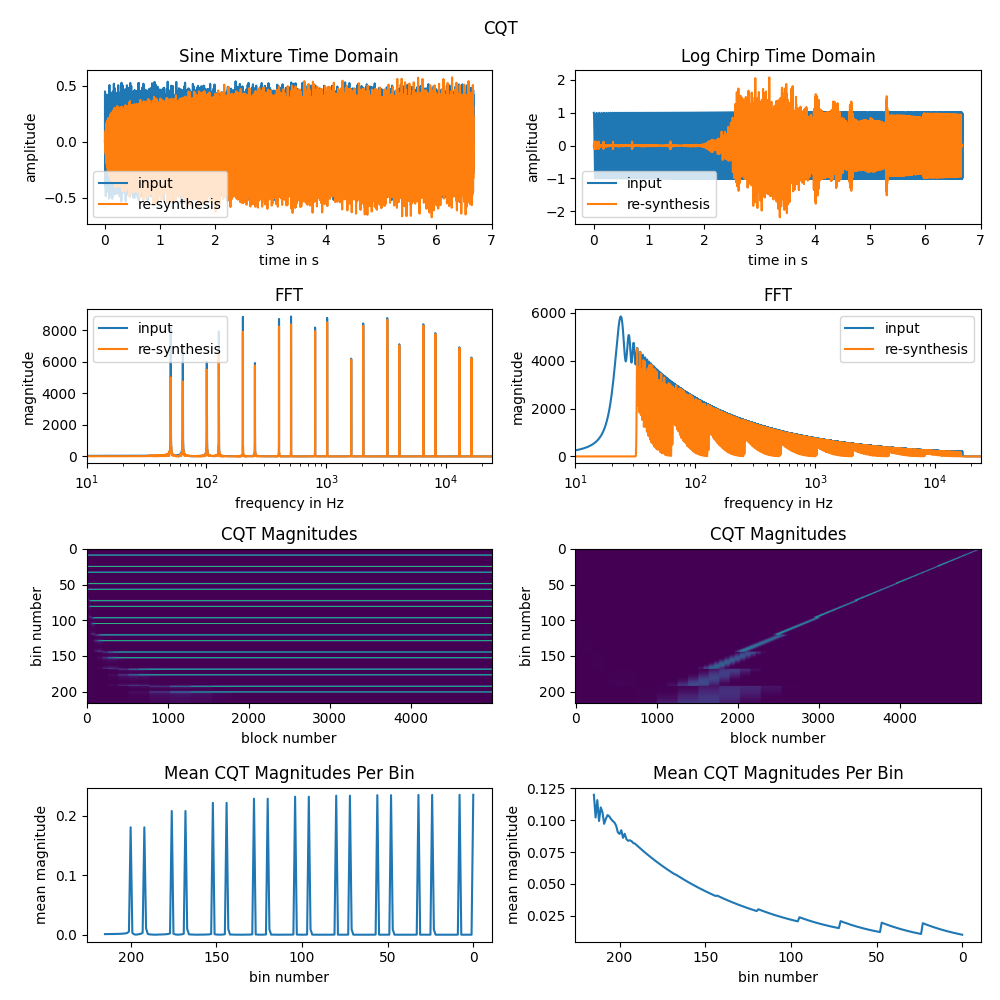
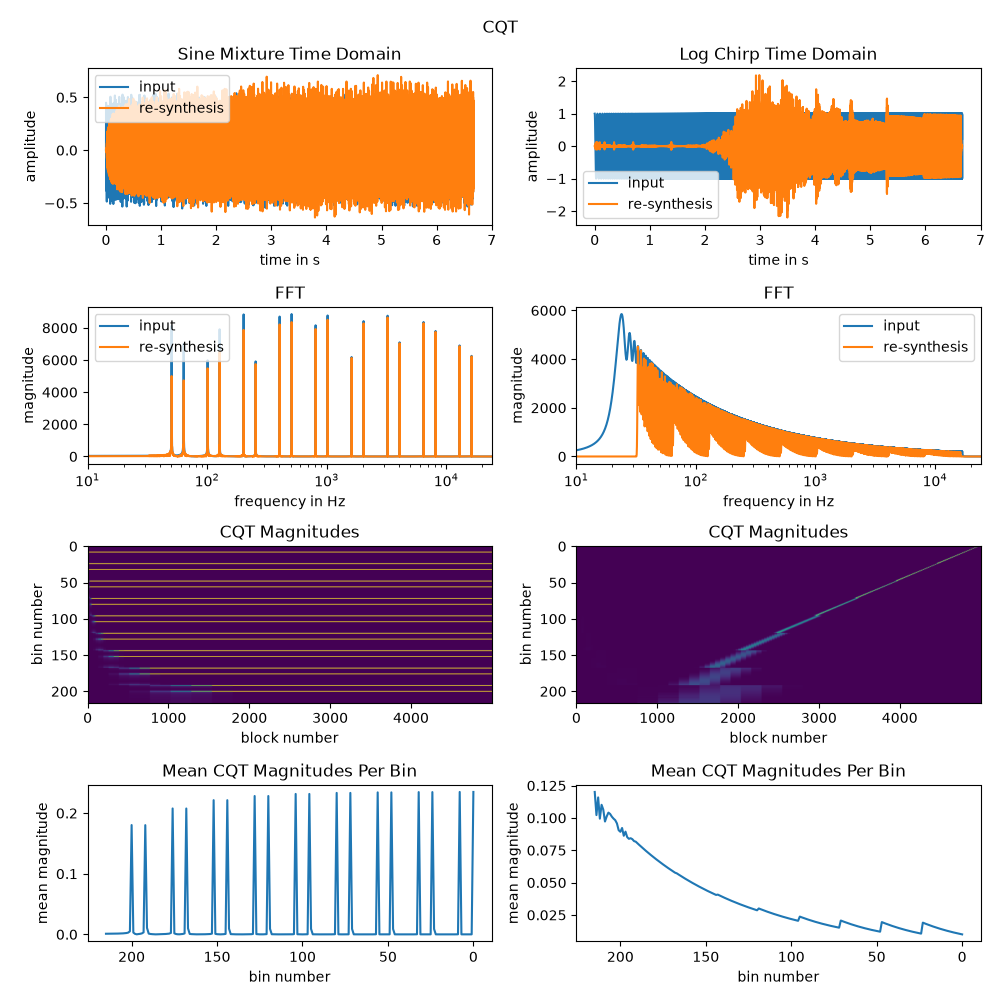
Fix cqt re-synthesis after changes

diff --git a/tests/cqt_integration_tests.cpp b/tests/cqt_integration_tests.cpp
@@ -2,6 +2,7 @@
 #include "SlidingCqt.h"
 
 #include <algorithm>
+#include <array>
 #include <cmath>
 #include <complex>
 #include <iostream>
@@ -42,6 +43,26 @@ std::vector<double> makeSineBlock(
             std::sin(2. * audio_utils::Pi<double>() * frequency * position / samplerate);
     }
     return block;
+}
+
+double measureToneAmplitude(
+    const std::vector<double> &data,
+    const std::size_t start,
+    const double samplerate,
+    const double frequency)
+{
+    double real = 0.;
+    double imaginary = 0.;
+    for (std::size_t sample = start; sample < data.size(); ++sample)
+    {
+        const double phase =
+            2. * audio_utils::Pi<double>() * frequency *
+            static_cast<double>(sample) / samplerate;
+        real += data[sample] * std::cos(phase);
+        imaginary -= data[sample] * std::sin(phase);
+    }
+    const double sampleCount = static_cast<double>(data.size() - start);
+    return 2. * std::hypot(real, imaginary) / sampleCount;
 }
 
 void testSlidingCqtBatchedInput()
@@ -88,11 +109,28 @@ void testConstantCqtBatchedSchedule()
             processingBoundary ? !schedule.empty() : schedule.empty(),
             "Constant CQT schedule is not aligned with filterbank processing");
 
+        std::array<int, 9> firstDelay;
+        std::array<int, 9> previousSynthesisOffset;
+        firstDelay.fill(-1);
+        previousSynthesisOffset.fill(-1);
         for (const Cqt::ScheduleElement &element : schedule)
         {
             require(
                 element.sample() >= 0 && element.sample() < 256,
                 "Schedule position is outside the internal processing block");
+            const int octave = element.octave();
+            if (firstDelay[octave] < 0)
+            {
+                firstDelay[octave] = element.delayOctaveRate();
+            }
+            require(
+                element.synthesisOffset() ==
+                    firstDelay[octave] - element.delayOctaveRate(),
+                "Synthesis offset is inconsistent with the analysis delay");
+            require(
+                element.synthesisOffset() > previousSynthesisOffset[octave],
+                "Synthesis offsets must advance within an internal block");
+            previousSynthesisOffset[octave] = element.synthesisOffset();
             cqt.cqt(element);
             cqt.icqt(element);
         }
@@ -100,6 +138,46 @@ void testConstantCqtBatchedSchedule()
         double *output = cqt.outputBlock(BlockSize);
         requireFinite(output, BlockSize, "Constant CQT produced a non-finite sample");
     }
+}
+
+void testConstantCqtHighFrequencyResynthesis()
+{
+    constexpr int BlockSize = 64;
+    constexpr int BlockCount = 512;
+    constexpr double Samplerate = 48000.;
+    const double frequency = Cqt::computeBinFrequency(
+        Cqt::computeReferenceFrequency(440.), 24, 0, 8);
+
+    Cqt::ConstantQTransform<24, 9> cqt;
+    cqt.init(64);
+    cqt.initFs(Samplerate, BlockSize);
+
+    std::vector<double> output(
+        static_cast<std::size_t>(BlockSize * BlockCount), 0.);
+    for (int blockIndex = 0; blockIndex < BlockCount; ++blockIndex)
+    {
+        std::vector<double> input =
+            makeSineBlock(BlockSize, blockIndex, Samplerate, frequency);
+        cqt.inputBlock(input.data(), BlockSize);
+        for (const Cqt::ScheduleElement &element : cqt.getCqtSchedule())
+        {
+            cqt.cqt(element);
+            cqt.icqt(element);
+        }
+
+        const double *const outputBlock = cqt.outputBlock(BlockSize);
+        std::copy_n(
+            outputBlock,
+            BlockSize,
+            output.data() + static_cast<std::size_t>(blockIndex * BlockSize));
+    }
+
+    const double reconstructedAmplitude =
+        measureToneAmplitude(output, output.size() / 2, Samplerate, frequency);
+    require(
+        reconstructedAmplitude > 0.5,
+        "Constant CQT lost high-frequency resynthesis amplitude: " +
+            std::to_string(reconstructedAmplitude));
 }
 
 }
@@ -112,6 +190,8 @@ int main()
         std::cout << "[pass] sliding CQT batched input\n";
         testConstantCqtBatchedSchedule();
         std::cout << "[pass] constant CQT batched schedule\n";
+        testConstantCqtHighFrequencyResynthesis();
+        std::cout << "[pass] constant CQT high-frequency resynthesis\n";
     }
     catch (const std::exception &error)
     {

diff --git a/include/ConstantQTransform.h b/include/ConstantQTransform.h
@@ -19,6 +19,7 @@
 #include "ResamplingFilterbank.h"
 #include "../submodules/audio-utils/include/Utils.h"
 #include "Util.h"
+#include <array>
 #include <atomic>
 #include <memory>
 
@@ -48,16 +49,26 @@ namespace Cqt
 	class ScheduleElement
 	{
 	public:
-		ScheduleElement(const int sample, const int octave, const int delayOctaveRate) : sample_(sample), octave_(octave), delayOctaveRate_(delayOctaveRate) {};
+		ScheduleElement(
+			const int sample,
+			const int octave,
+			const int delayOctaveRate,
+			const int synthesisOffset = 0)
+			: sample_(sample),
+			  octave_(octave),
+			  delayOctaveRate_(delayOctaveRate),
+			  synthesisOffset_(synthesisOffset) {};
 		~ScheduleElement() = default;
 		int sample() const { return sample_; };
 		int octave() const { return octave_; };
 		int delayOctaveRate() const { return delayOctaveRate_; };
+		int synthesisOffset() const { return synthesisOffset_; };
 
 	private:
 		int sample_{0}; // Position in the filterbank's internal processing block
 		int octave_{0};
 		int delayOctaveRate_{0}; // Delay of the transformation in samples in the corresponding octave sample buffer
+		int synthesisOffset_{0}; // Forward offset in the current octave output block
 	};
 
 	/*
@@ -240,13 +251,13 @@ namespace Cqt
 		mStageOutputBuffer->pullBlock(mOutputBuffer.data(), mStageOutputBuffer->getWriteReadDistance());
 		//// add new data
 		int count = 0;
-		for (int i = schedule.delayOctaveRate(); i < (schedule.delayOctaveRate() + Fft_Size); i++)
+		for (int i = schedule.synthesisOffset(); i < (schedule.synthesisOffset() + Fft_Size); i++)
 		{
 			mOutputBuffer[i] += mIfftOutputBuffer[count];
 			count++;
 		}
 		//// push new data
-		mStageOutputBuffer->pushBlock(mOutputBuffer.data(), Fft_Size + schedule.delayOctaveRate());
+		mStageOutputBuffer->pushBlock(mOutputBuffer.data(), Fft_Size + schedule.synthesisOffset());
 	};
 
 	template <int B>
@@ -524,6 +535,8 @@ namespace Cqt
 		const int processedInputSize = mFilterbank.getLastProcessedInputSize();
 		// determine cqt positions and schedule them
 		mCqtSchedule.clear();
+		std::array<int, OctaveNumber> firstDelayOctaveRate;
+		firstDelayOctaveRate.fill(-1);
 		for (int i = 0; i < processedInputSize; i++)
 		{
 			for (int octave = (OctaveNumber - 1); octave >= 0; octave--) // starting with lowest pitched octave for historical reasons
@@ -533,7 +546,14 @@ namespace Cqt
 				{
 					mSampleCounters[octave] = 0;
 					const int delayOctaveRate = static_cast<int>(static_cast<double>(processedInputSize - i - 1) * mSampleRatesByOriginRate[octave]);
-					mCqtSchedule.push_back({i, octave, delayOctaveRate});
+					if (firstDelayOctaveRate[octave] < 0)
+					{
+						firstDelayOctaveRate[octave] = delayOctaveRate;
+					}
+					const int synthesisOffset =
+						firstDelayOctaveRate[octave] - delayOctaveRate;
+					mCqtSchedule.push_back(
+						{i, octave, delayOctaveRate, synthesisOffset});
 				}
 			}
 		}

diff --git a/python-bindings/src/main.cpp b/python-bindings/src/main.cpp
@@ -31,7 +31,8 @@ PYBIND11_MODULE(prtcqt, m)
         .def(py::init<const int, const int, const int>())
         .def("sample", &Cqt::ScheduleElement::sample)
         .def("octave", &Cqt::ScheduleElement::octave)
-        .def("delayOctaveRate", &Cqt::ScheduleElement::delayOctaveRate);
+        .def("delayOctaveRate", &Cqt::ScheduleElement::delayOctaveRate)
+        .def("synthesisOffset", &Cqt::ScheduleElement::synthesisOffset);
 
     py::class_<Cqt::Python_ConstantQTransform<12, 9>>(m, "Cqt12")
         .def(py::init<>())
